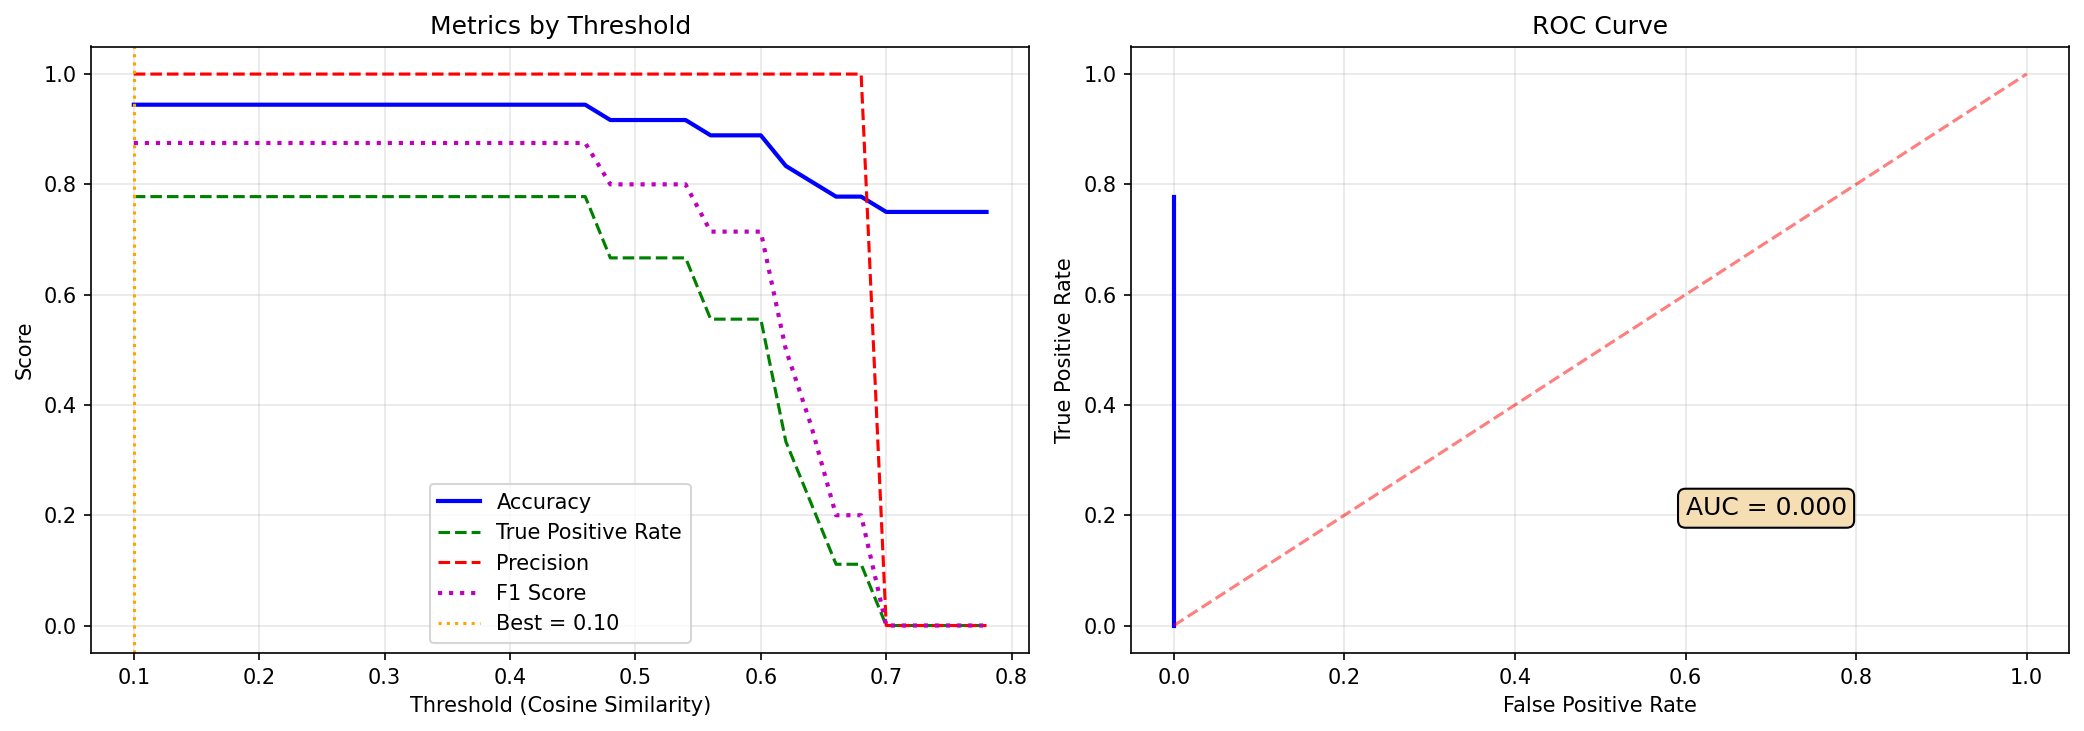
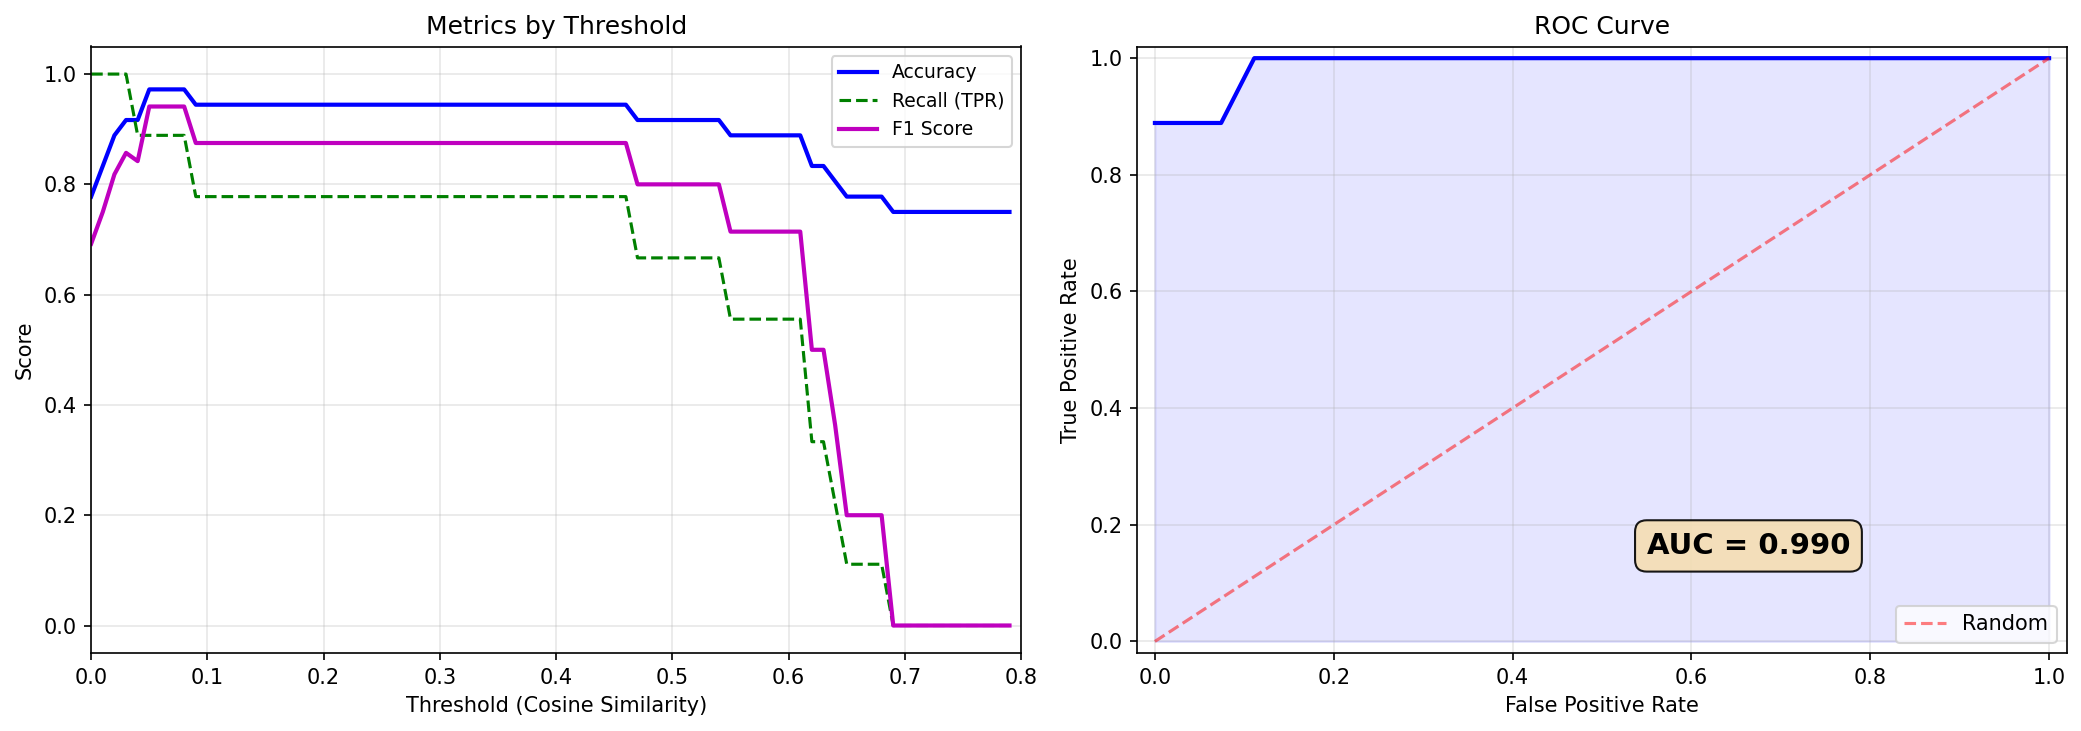
Quick update

diff --git a/README.md b/README.md
@@ -1,5 +1,7 @@
 # Missing Person Detection System
 
+Real-time missing person detection in video and webcam feeds using YOLOv8 + InsightFace (ArcFace). The system detects persons, extracts 512-d face embeddings, and matches them against a database of missing persons using cosine similarity.
+
 ## Demo
 
 | Morgan Freeman | Scarlett Johansson |
@@ -7,12 +9,10 @@
 | ![Morgan Freeman Demo](output/demo_detection.gif) | ![Scarlett Johansson Demo](output/demo_scarlett.gif) |
 | Detected at movie premiere (62% peak) | Detected at Avengers premiere (35% peak) |
 
-> The system identifies missing persons in crowd footage with a red bounding box, green face box, and "MISSING" alert label with confidence score.
-
 ## Architecture
 
 ```
-Input Video (crowd footage)
+Input (Video / Webcam / RTSP)
         |
         v
   +------------------+
@@ -66,54 +66,41 @@ docker run --rm \
 
 # Run training notebook
 docker compose up train
-# Open http://localhost:8888 in your browser
+# Then open http://localhost:8888
 ```
 
 Or use **docker compose**:
 
 ```bash
-# Detect from video (place your video as videos/input.mp4)
-docker compose up detect
-
-# Detect from RTSP stream
-STREAM_URL=rtsp://192.168.1.100:554/stream docker compose up detect-stream
-
-# Training notebook
-docker compose up train
+docker compose up detect                                                  # Video file (videos/input.mp4)
+STREAM_URL=rtsp://192.168.1.100:554/stream docker compose up detect-stream  # RTSP stream
+docker compose up train                                                     # Jupyter notebook
 ```
 
-Key dependencies:
-- `ultralytics` - YOLOv8 person detection
-- `insightface` - ArcFace face detection + recognition (512-d embeddings)
-- `onnxruntime` - Runtime for InsightFace models
-- `opencv-python` - Image/video processing
+Key dependencies: `ultralytics` (YOLOv8), `insightface` (ArcFace), `onnxruntime`, `opencv-python`
 
 ## Usage
 
 ### Step 1: Prepare missing person photos
 
-Create a folder for each person in `missing_persons_db/`:
-
 ```
 missing_persons_db/
   person_001/
-    name.txt          # Person's name, e.g. "John Doe"
-    photo1.jpg         # Clear frontal face photo
-    photo2.jpg         # Side angle photo
-    photo3.jpg         # Different lighting conditions
+    name.txt          # "John Doe"
+    photo1.jpg        # Clear frontal face
+    photo2.jpg        # Side angle
+    photo3.jpg        # Different lighting
   person_002/
     name.txt
     photo1.jpg
 ```
 
-Photo guidelines:
 - 3-5 photos per person from different angles and lighting
 - Face should be clear and unobstructed
 - Minimum 100x100 pixels for face region
 
 ### Step 2: Build embeddings database
 
-Open and run the notebook:
 ```bash
 jupyter notebook train_face_recognition.ipynb
 ```
@@ -122,31 +109,26 @@ The notebook will:
 1. Load and display images from database
 2. Generate ArcFace 512-d embeddings for each person
 3. Evaluate embedding quality (intra/inter-person cosine similarity)
-4. Find optimal recognition threshold (ROC curve)
+4. Find optimal recognition threshold
 5. Save `embeddings.pkl`
 
 ### Step 3: Run detection
 
 ```bash
-# === Video file ===
+# Video file
 python detect_missing_person.py --video path/to/crowd_video.mp4
 
-# Save output video
+# Save output
 python detect_missing_person.py --video path/to/video.mp4 --output output/result.mp4
 
-# === Real-time webcam ===
+# Real-time webcam
 python detect_missing_person.py --webcam
-
-# Use a specific camera (e.g. external USB camera)
 python detect_missing_person.py --webcam --camera-id 1
 
-# Webcam with output recording
-python detect_missing_person.py --webcam --output output/live_capture.mp4
-
-# === RTSP / IP camera stream ===
+# RTSP / IP camera stream
 python detect_missing_person.py --video rtsp://192.168.1.100:554/stream
 
-# === Custom parameters ===
+# Custom parameters
 python detect_missing_person.py \
     --video path/to/video.mp4 \
     --output output/result.mp4 \
@@ -155,7 +137,7 @@ python detect_missing_person.py \
     --no-display
 ```
 
-Press `q` to stop processing at any time.
+Press `q` to stop at any time. `--video` and `--webcam` are mutually exclusive.
 
 ### Command-line arguments
 
@@ -170,8 +152,6 @@ Press `q` to stop processing at any time.
 | `--skip`      | Process every N frames                         | 5        |
 | `--no-display`| Disable video display window                   | False    |
 
-> **Note:** `--video` and `--webcam` are mutually exclusive — use one or the other.
-
 ## Project Structure
 
 ```
@@ -180,31 +160,35 @@ MissingPersonDetection/
   requirements.txt             # Dependencies
   detect_missing_person.py     # Main detection pipeline
   train_face_recognition.ipynb # Embeddings & training notebook
+  Dockerfile                   # Docker container
+  docker-compose.yml           # Docker compose services
   missing_persons_db/          # Missing person photos
     person_001/
     person_002/
-    embeddings.pkl             # Embeddings file (auto-generated)
+    embeddings.pkl             # Generated embeddings
   utils/
     __init__.py
     person_detector.py         # YOLO person detection
     face_detector.py           # InsightFace face detection
-    face_recognizer.py         # ArcFace recognition & matching
-  output/                      # Output results
+    face_recognizer.py         # Cosine similarity matching
+  output/                      # Output videos & metrics
 ```
 
 ## Tuning
 
 Edit `config.py`:
 
-- `RECOGNITION_THRESHOLD`: Increase (e.g. 0.5) to reduce false positives, decrease (e.g. 0.3) to catch more matches
-- `FRAME_SKIP`: Decrease to process more frames (slower), increase for speed
-- `INSIGHTFACE_MODEL`: "buffalo_l" (accurate) or "buffalo_s" (fast)
-- `YOLO_CONFIDENCE_THRESHOLD`: Increase to only detect clear persons
-- `FACE_DETECTION_THRESHOLD`: Face detection confidence threshold
+| Parameter | Description | Default |
+|-----------|-------------|---------|
+| `RECOGNITION_THRESHOLD` | Cosine similarity threshold. Higher = fewer false positives, lower = more matches | 0.4 |
+| `FRAME_SKIP` | Process every N frames. Lower = more accurate, higher = faster | 5 |
+| `INSIGHTFACE_MODEL` | `"buffalo_l"` (accurate) or `"buffalo_s"` (fast) | `"buffalo_l"` |
+| `YOLO_CONFIDENCE_THRESHOLD` | Person detection confidence | 0.5 |
+| `FACE_DETECTION_THRESHOLD` | Face detection confidence | 0.5 |
 
 ## Model Performance
 
-Training was performed using the `train_face_recognition.ipynb` notebook on a database of **3 persons** (Morgan Freeman, Keanu Reeves, Scarlett Johansson) with **3 photos each** (9 total embeddings).
+Evaluated using `train_face_recognition.ipynb` on a database of **3 persons** (Morgan Freeman, Keanu Reeves, Scarlett Johansson) with **3 photos each** (9 total embeddings).
 
 ### Database Overview
 
@@ -214,40 +198,39 @@ Training was performed using the `train_face_recognition.ipynb` notebook on a da
 
 | Metric | Value |
 |--------|-------|
-| Embedding model | ArcFace ResNet100 (buffalo_l) |
+| Model | ArcFace ResNet100 (buffalo_l) |
 | Embedding dimensions | 512-d |
-| Total persons | 3 |
+| Persons | 3 |
 | Total embeddings | 9 |
-| Face detection success rate | 100% (9/9) |
-| Embeddings file size | 18.6 KB |
+| Face detection rate | 100% (9/9) |
 
-### Embedding Quality (Cosine Similarity)
+### Embedding Quality
 
-**Intra-person similarity** (same person, higher is better):
+**Intra-person similarity** (same person — higher is better):
 
-| Person | Avg Similarity | Min Similarity | Pairs |
-|--------|---------------|----------------|-------|
+| Person | Avg | Min | Pairs |
+|--------|-----|-----|-------|
 | Morgan Freeman | 0.552 | 0.465 | 3 |
 | Keanu Reeves | 0.245 | 0.038 | 3 |
 | Scarlett Johansson | 0.643 | 0.616 | 3 |
 | **Overall** | **0.480** | **0.038** | **9** |
 
-**Inter-person similarity** (different persons, lower is better):
+**Inter-person similarity** (different persons — lower is better):
 
-| Pair | Avg Similarity | Max Similarity |
-|------|---------------|----------------|
+| Pair | Avg | Max |
+|------|-----|-----|
 | Morgan Freeman vs Keanu Reeves | -0.007 | 0.048 |
 | Morgan Freeman vs Scarlett Johansson | -0.005 | 0.046 |
 | Keanu Reeves vs Scarlett Johansson | -0.028 | 0.035 |
 | **Overall** | **-0.013** | **0.048** |
 
-> **Note:** Inter-person similarity is near zero across all pairs, indicating excellent separation between identities. Keanu Reeves has lower intra-person similarity due to significant appearance variation across photos (different years, angles, facial hair).
+Inter-person similarity is near zero across all pairs, indicating excellent identity separation. Keanu Reeves has lower intra-person similarity due to significant appearance variation across photos (different years, facial hair).
 
 ### Similarity Distribution
 
 ![Cosine Similarity Distribution](output/similarity_distribution.png)
 
-The histogram shows clear separation between intra-person (blue) and inter-person (red) similarity distributions. The green dashed line marks the recognition threshold (0.4).
+Clear separation between intra-person (blue) and inter-person (red) distributions. The green dashed line marks the config threshold (0.4).
 
 ### Threshold Tuning & ROC Curve
 
@@ -255,18 +238,23 @@ The histogram shows clear separation between intra-person (blue) and inter-perso
 
 | Metric | Value |
 |--------|-------|
-| Optimal threshold | 0.10 |
-| Best accuracy at optimal threshold | 94.4% |
-| Config threshold | 0.40 |
+| Optimal threshold (by F1) | 0.20 |
+| F1 Score | 0.875 |
+| Recall | 77.8% |
+| Accuracy | 94.4% |
+| AUC | 0.990 |
+| Config threshold | **0.40** |
 
-The left plot shows accuracy, TPR, precision, and F1 score across different threshold values. The right plot shows the ROC curve.
+The left plot shows accuracy, recall, and F1 score across threshold values. The orange line marks the F1-optimal threshold (0.20) and the red dashed line marks the config default (0.40). The right plot shows the ROC curve (AUC = 0.990).
+
+> **Important:** These metrics are evaluated on a small closed set of 3 known persons only. Real-world performance will differ because the system encounters unknown strangers — the main source of false positives — that this evaluation cannot capture. The config default of **0.4** is intentionally conservative to minimize false alerts. Tune based on your deployment testing.
 
 ### Key Takeaways
 
-- **Inter-person separation is excellent**: max inter-person similarity (0.048) is far below the recognition threshold (0.4), meaning false positives are unlikely
-- **Intra-person consistency varies**: Scarlett Johansson's embeddings are consistent (avg 0.643), while Keanu Reeves shows more variation (avg 0.245) due to appearance changes across years
-- **Cosine similarity matching** (threshold-based) is the recognition method — no classifier training needed, and new persons can be added to the database instantly without retraining
-- Adding more reference photos per person (especially with diverse angles/lighting) improves intra-person similarity and overall robustness
+- **Inter-person separation is excellent** — max inter-person similarity (0.048) is far below the config threshold (0.4)
+- **Intra-person consistency varies** — Scarlett Johansson (avg 0.643) vs Keanu Reeves (avg 0.245) due to appearance changes across photos
+- **No retraining needed** — cosine similarity matching lets you add/remove persons from the database instantly
+- **More reference photos = better accuracy** — especially with diverse angles and lighting conditions
 
 ## Comparison: InsightFace vs dlib
 
